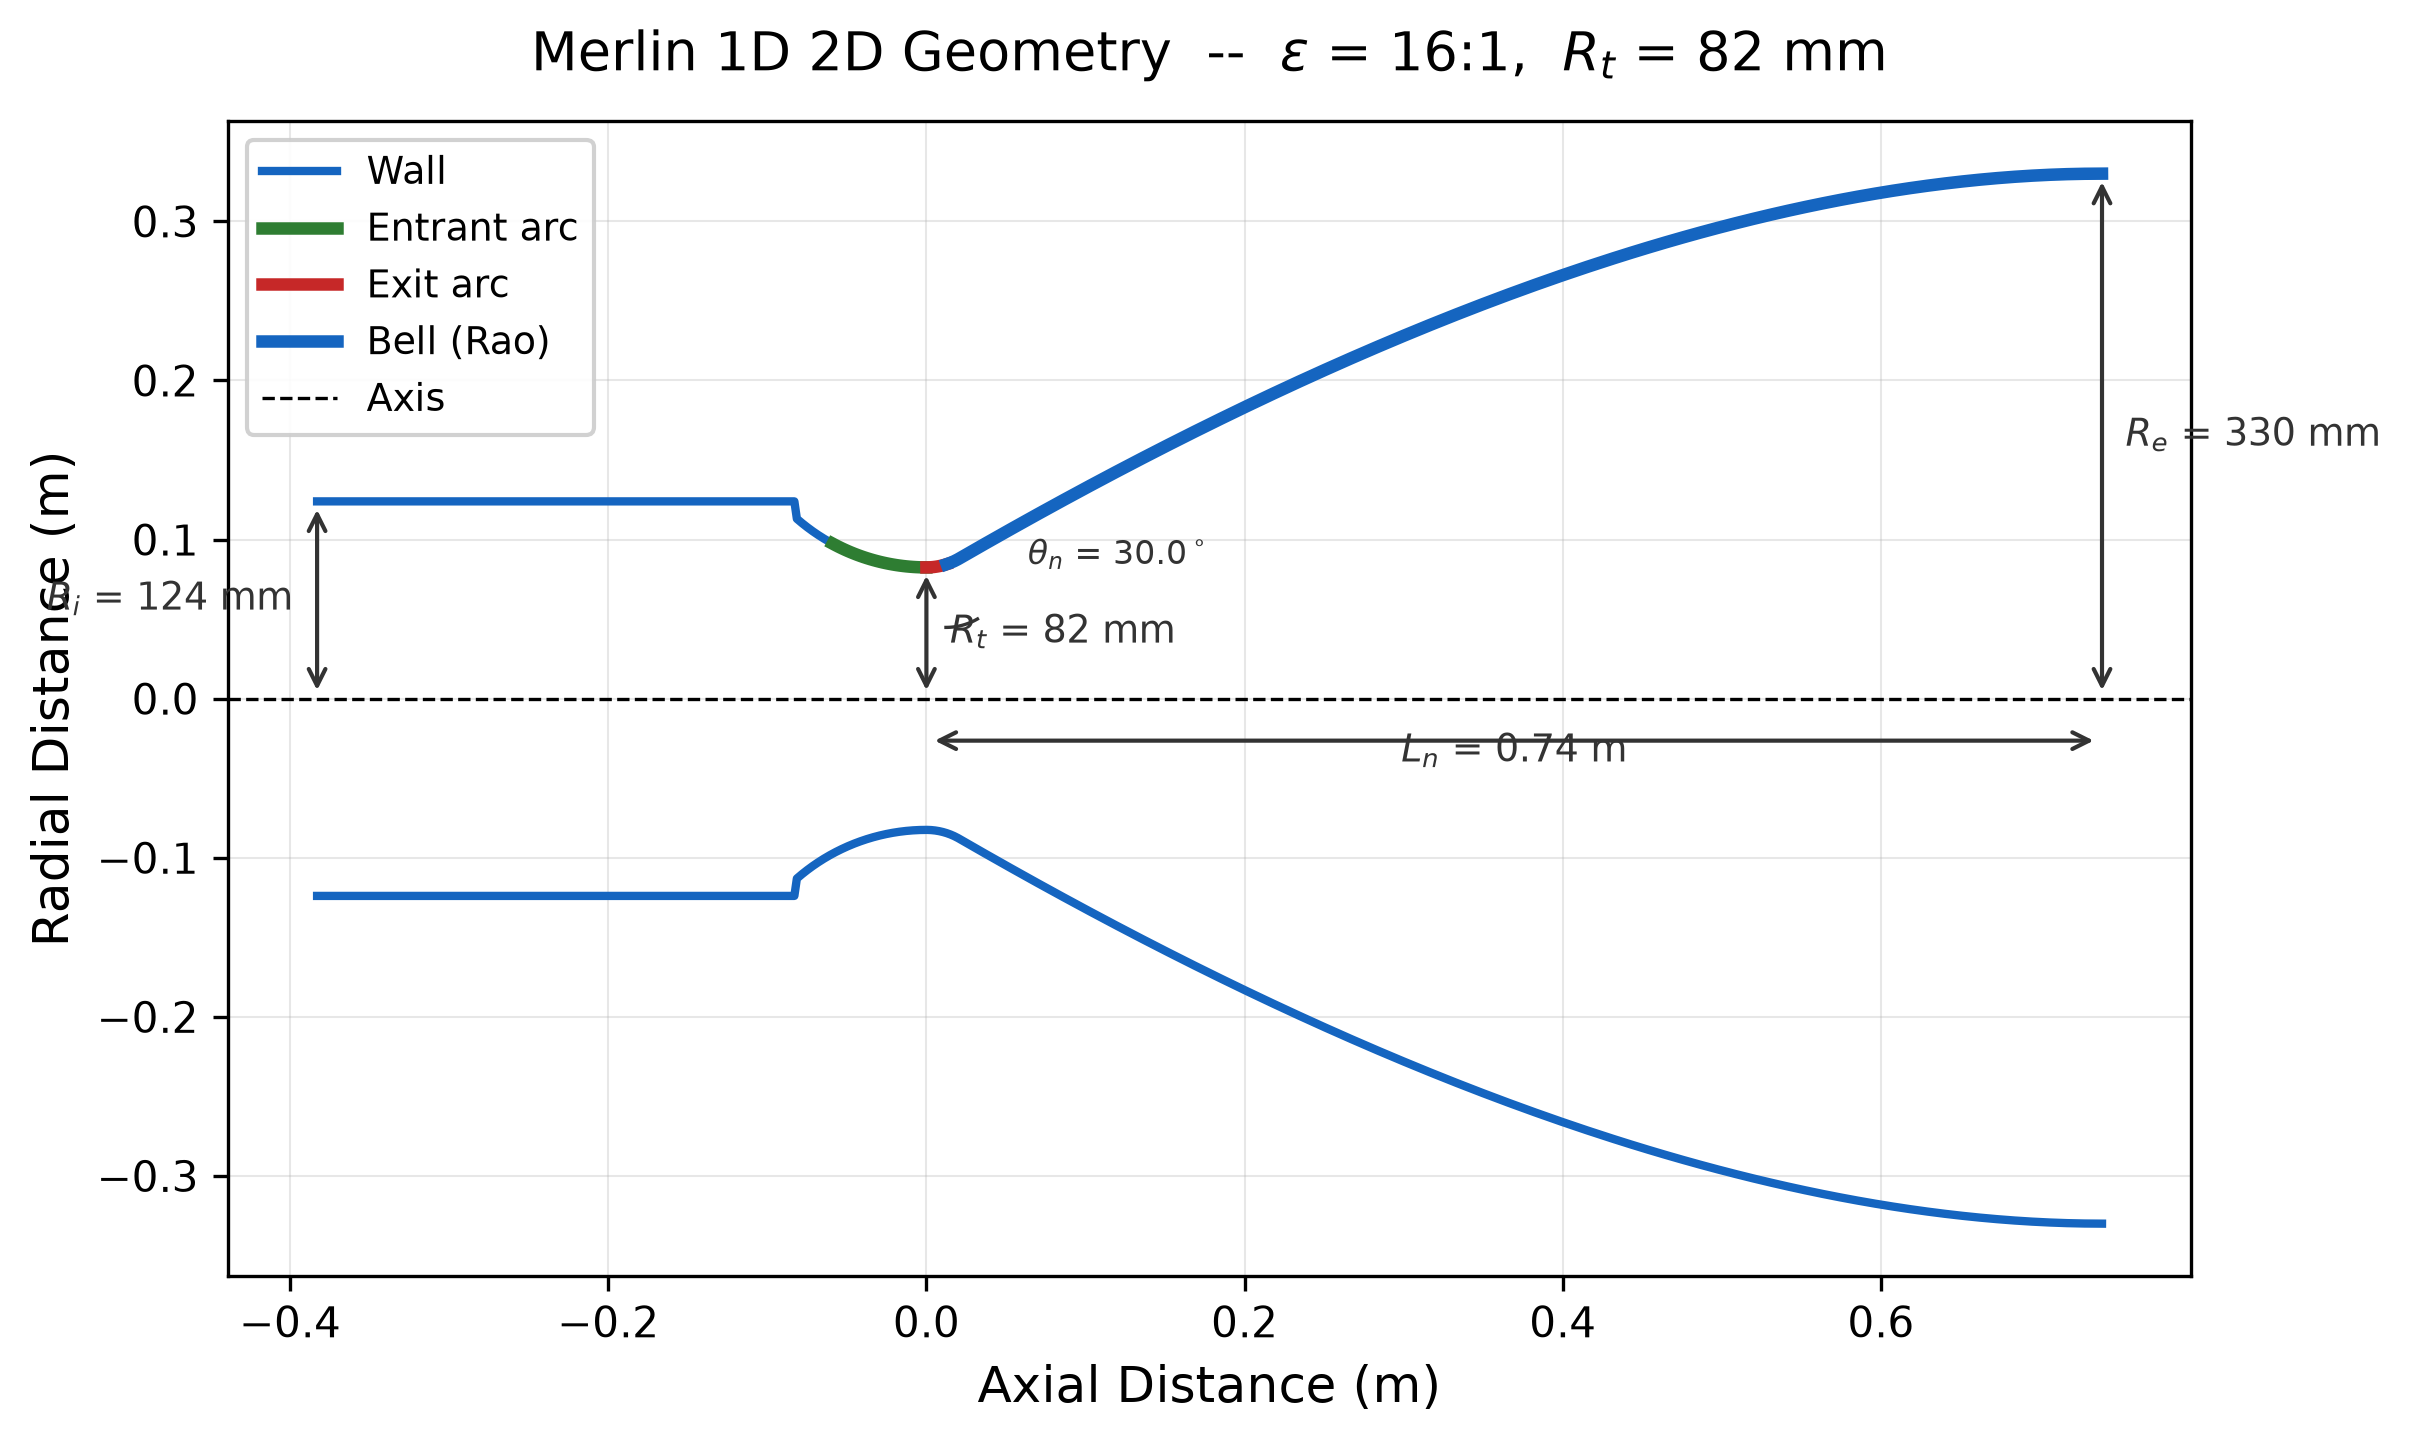
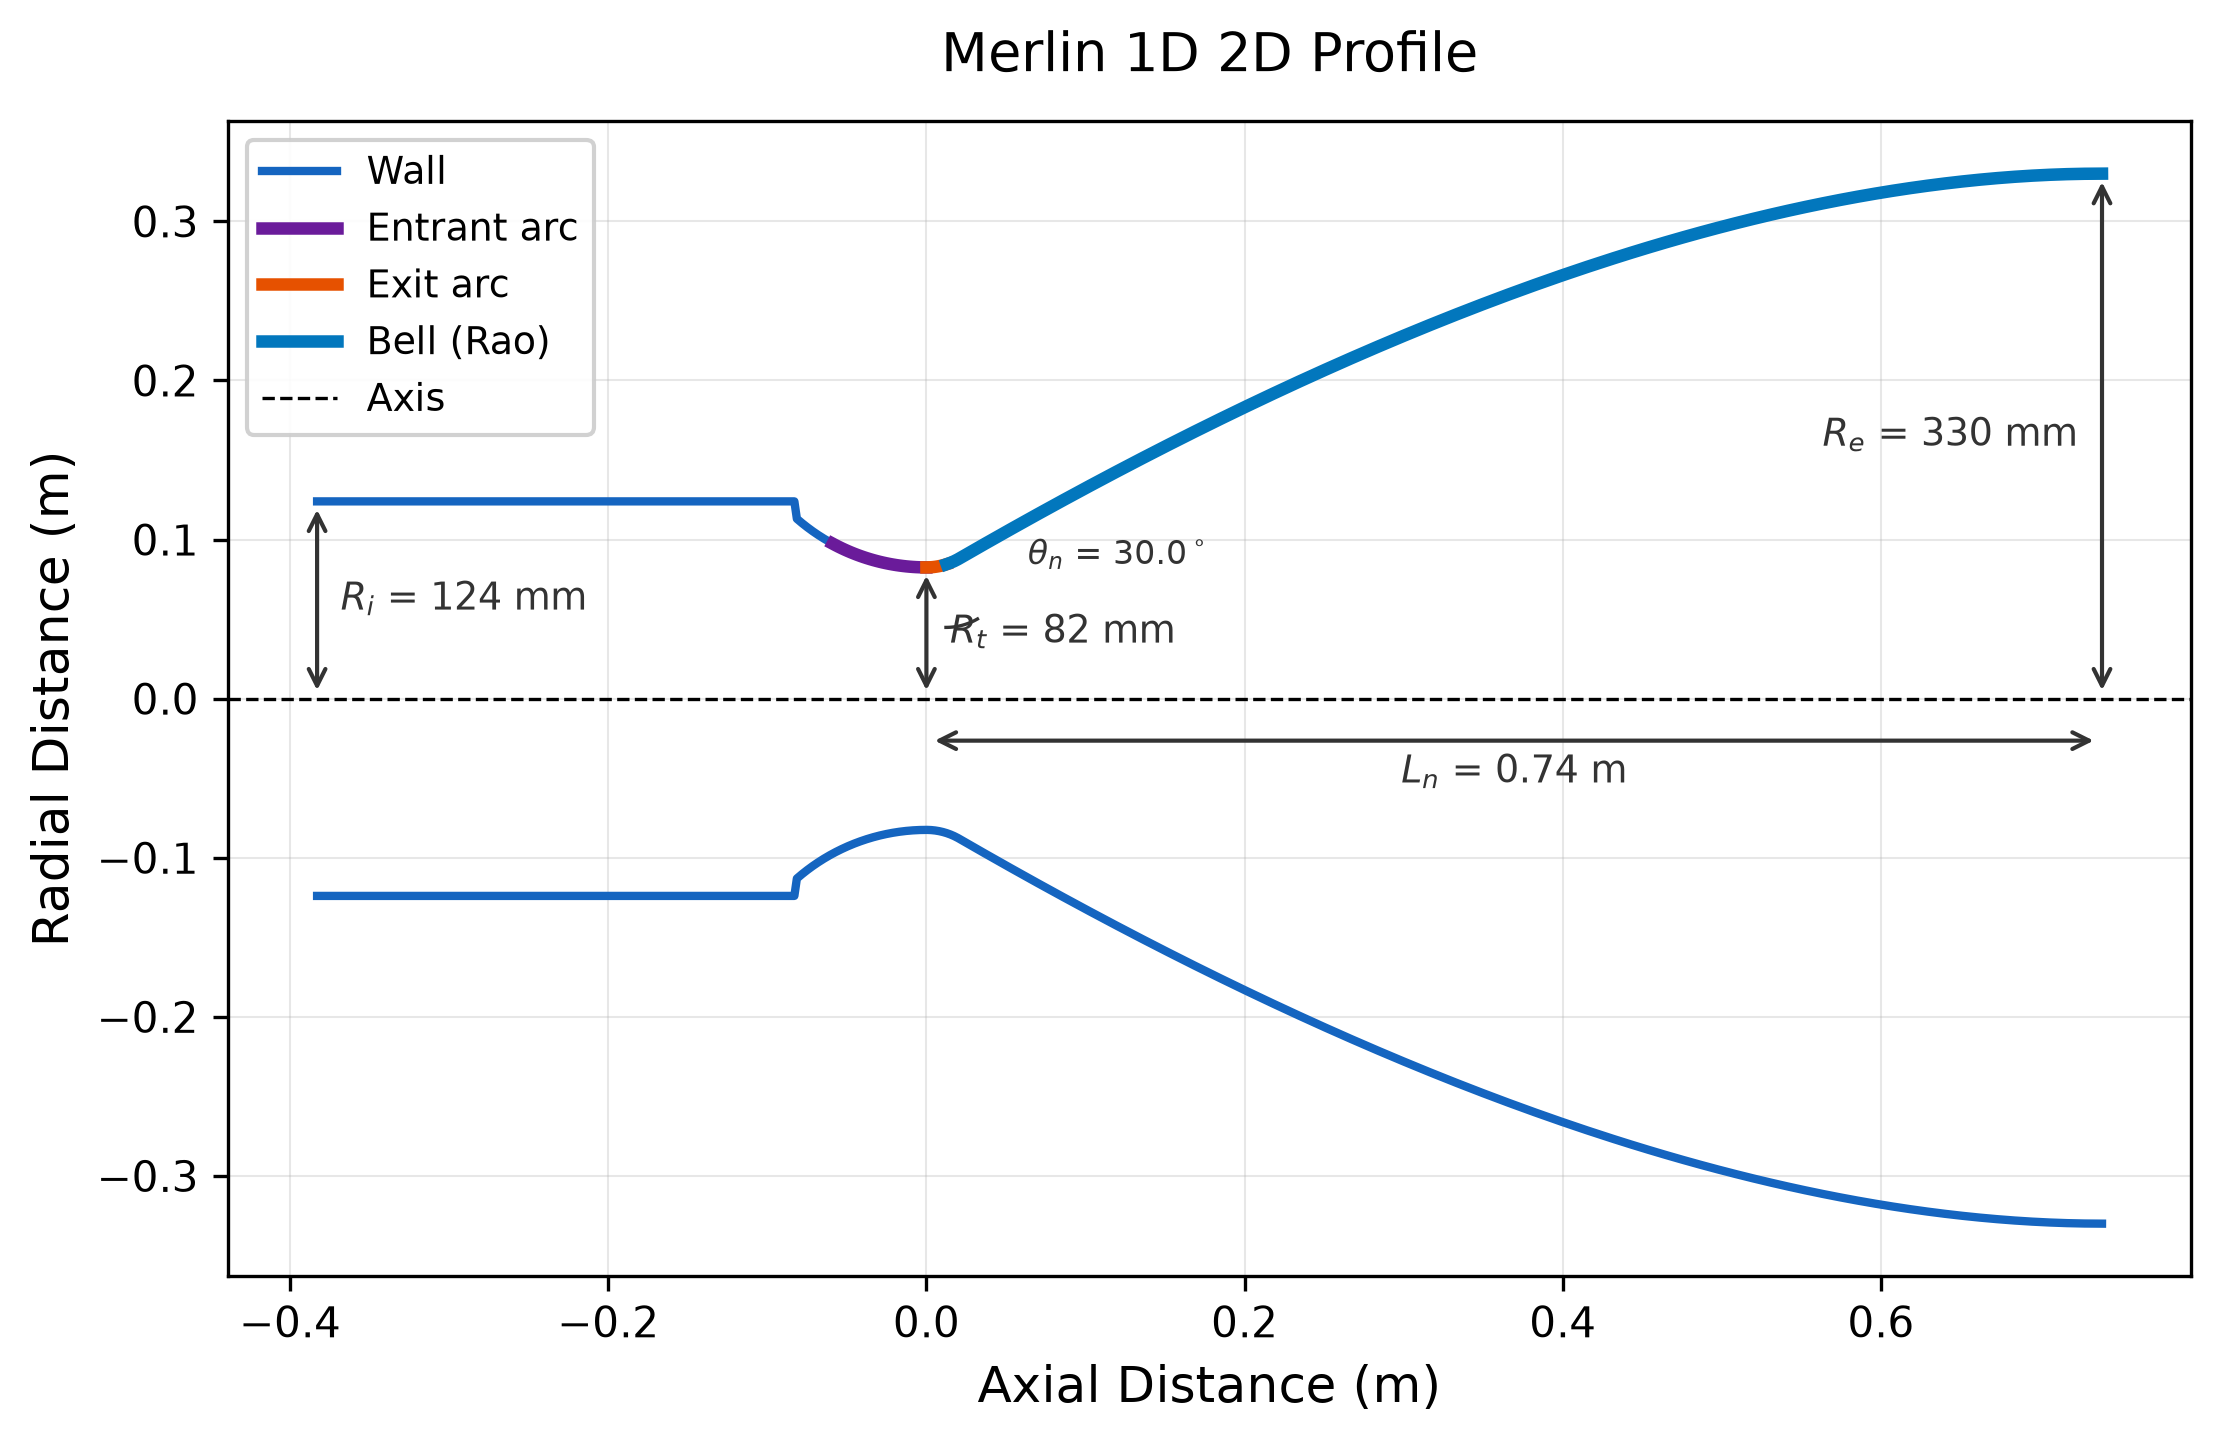
feat(viz): update 2D/3D plot titles, colors, annotations; add nozzle dimension tables to README

diff --git a/src/viz/contour_annotated.py b/src/viz/contour_annotated.py
@@ -114,18 +114,18 @@ def plot_annotated_contour(
     ax.plot(x, y, color="#1565C0", linewidth=2.0, label="Wall", zorder=5)
     ax.plot(x, -y, color="#1565C0", linewidth=2.0, zorder=5)
 
-    # --- Color-coded sections (top half) ---
+    # --- Color-coded sections (top half) - distinct colors per section ---
     ax.plot(
         sections.entrant_arc_x, sections.entrant_arc_y,
-        color="#2E7D32", linewidth=3.0, label="Entrant arc", zorder=6,
+        color="#6A1B9A", linewidth=3.0, label="Entrant arc", zorder=6,
     )
     ax.plot(
         sections.exit_arc_x, sections.exit_arc_y,
-        color="#C62828", linewidth=3.0, label="Exit arc", zorder=6,
+        color="#E65100", linewidth=3.0, label="Exit arc", zorder=6,
     )
     ax.plot(
         sections.bell_x, sections.bell_y,
-        color="#1565C0", linewidth=3.0, label="Bell (Rao)", zorder=6,
+        color="#0277BD", linewidth=3.0, label="Bell (Rao)", zorder=6,
     )
 
     # --- Axis of symmetry ---
@@ -156,34 +156,34 @@ def plot_annotated_contour(
             fontsize=9, color="#333", va="center",
         )
 
-        # Exit radius: vertical line at exit
-        ax.annotate(
-            "", xy=(ln, r_exit), xytext=(ln, 0),
-            arrowprops=dict(arrowstyle="<->", color="#333", lw=1.0),
-        )
-        ax.text(
-            ln + h_offset, r_exit / 2, f"$R_e$ = {r_exit*1000:.0f} mm",
-            fontsize=9, color="#333", va="center",
-        )
-
-        # Nozzle length: horizontal line along axis
+        # Nozzle length: horizontal line along axis (Ln label below the line)
         ax.annotate(
             "", xy=(ln, -v_offset), xytext=(0, -v_offset),
             arrowprops=dict(arrowstyle="<->", color="#333", lw=1.0),
         )
         ax.text(
-            ln / 2, -1.5 * v_offset, f"$L_n$ = {ln:.2f} m",
+            ln / 2, -2.0 * v_offset, f"$L_n$ = {ln:.2f} m",
             fontsize=9, color="#333", ha="center",
         )
 
-        # Inlet radius: vertical line at chamber start
+        # Exit radius: vertical line at exit (Re label to the left)
+        ax.annotate(
+            "", xy=(ln, r_exit), xytext=(ln, 0),
+            arrowprops=dict(arrowstyle="<->", color="#333", lw=1.0),
+        )
+        ax.text(
+            ln - h_offset, r_exit / 2, f"$R_e$ = {r_exit*1000:.0f} mm",
+            fontsize=9, color="#333", va="center", ha="right",
+        )
+
+        # Inlet radius: vertical line at chamber start (Ri label to the right)
         ax.annotate(
             "", xy=(x_start, r_inlet), xytext=(x_start, 0),
             arrowprops=dict(arrowstyle="<->", color="#333", lw=1.0),
         )
         ax.text(
-            x_start - h_offset, r_inlet / 2, f"$R_i$ = {r_inlet*1000:.0f} mm",
-            fontsize=9, color="#333", va="center", ha="right",
+            x_start + h_offset, r_inlet / 2, f"$R_i$ = {r_inlet*1000:.0f} mm",
+            fontsize=9, color="#333", va="center", ha="left",
         )
 
     # --- Angle annotations ---
@@ -209,8 +209,7 @@ def plot_annotated_contour(
     ax.set_xlabel("Axial Distance (m)", fontsize=12, color="black")
     ax.set_ylabel("Radial Distance (m)", fontsize=12, color="black")
     ax.set_title(
-        f"{engine_name} 2D Geometry  --  $\\epsilon$ = {config.expansion_ratio:.0f}:1"
-        f",  $R_t$ = {config.throat_radius*1000:.0f} mm",
+        f"{engine_name} 2D Profile",
         fontsize=13, color="black", pad=12,
     )
     ax.legend(fontsize=9, loc="upper left", framealpha=0.9)

diff --git a/src/viz/nozzle_3d.py b/src/viz/nozzle_3d.py
@@ -117,8 +117,7 @@ def plot_nozzle_3d(
         pane.set_edgecolor("#cccccc")
 
     ax.set_title(
-        f"{engine_name} 3D Geometry  --  $\\epsilon$ = {config.expansion_ratio:.0f}:1"
-        f",  $R_t$ = {config.throat_radius*1000:.0f} mm",
+        f"{engine_name} 3D Geometry",
         fontsize=12, color="black", pad=12,
     )
 

diff --git a/README.md b/README.md
@@ -121,6 +121,19 @@ Temperature decreases from chamber (2200-3600 K). RANS thermal boundary layer is
 
 *Manufactured by SpaceX, the Merlin 1D is a gas-generator cycle engine burning LOX/RP-1 propellants with a pintle injector design. First flown in 2013 on the Falcon 9, it has become the most-flown rocket engine in history, powering all Falcon 9 and Falcon Heavy first stages.*
 
+### Nozzle Dimensions
+
+| Parameter | Value |
+|-----------|-------|
+| Throat Radius (Rt) | 82.5 mm |
+| Exit Radius (Re) | 330 mm |
+| Inlet Radius (Ri) | 124 mm |
+| Nozzle Length (Ln) | 0.74 m |
+| Converging Length | 83 mm |
+| Chamber Length | 300 mm |
+| Expansion Ratio | 16:1 |
+| theta_n | 30.0 deg |
+
 ### Nozzle Geometry
 
 | 2D Annotated Profile | 3D Revolved Surface |
@@ -178,6 +191,19 @@ Shock diamond pattern observed in the exhaust plume, formed by the interaction o
 ## SpaceX Raptor SL
 
 *The Raptor SL is a full-flow staged combustion cycle engine manufactured by SpaceX, burning LOX/CH4 propellants at the highest chamber pressure (33 MPa) of any operational engine. First flown in 2023 on Starship, it is the first full-flow staged combustion engine to power a vehicle in flight.*
+
+### Nozzle Dimensions
+
+| Parameter | Value |
+|-----------|-------|
+| Throat Radius (Rt) | 82.5 mm |
+| Exit Radius (Re) | 481 mm |
+| Inlet Radius (Ri) | 124 mm |
+| Nozzle Length (Ln) | 1.19 m |
+| Converging Length | 83 mm |
+| Chamber Length | 300 mm |
+| Expansion Ratio | 34:1 |
+| theta_n | 28.0 deg |
 
 ### Nozzle Geometry
 
@@ -237,6 +263,19 @@ Shock diamond formation in the Raptor SL exhaust plume, visible as repeating bri
 
 *Designed and manufactured by Aerojet Rocketdyne, the RS-25 is a fuel-rich staged combustion cycle engine burning LOX/LH2 with a vacuum specific impulse of 452 seconds. First flown in 1981 on the Space Shuttle, it continues service on NASA's Space Launch System (SLS) core stage.*
 
+### Nozzle Dimensions
+
+| Parameter | Value |
+|-----------|-------|
+| Throat Radius (Rt) | 136 mm |
+| Exit Radius (Re) | 1197 mm |
+| Inlet Radius (Ri) | 204 mm |
+| Nozzle Length (Ln) | 3.17 m |
+| Converging Length | 136 mm |
+| Chamber Length | 500 mm |
+| Expansion Ratio | 77.5:1 |
+| theta_n | 25.0 deg |
+
 ### Nozzle Geometry
 
 | 2D Annotated Profile | 3D Revolved Surface |
@@ -294,6 +333,19 @@ Shock diamond structure in the RS-25 exhaust plume at vacuum conditions, showing
 ## RL10B-2 (Delta IV Upper Stage)
 
 *The RL10B-2 is an expander cycle engine manufactured by Aerojet Rocketdyne, burning LOX/LH2 with a carbon-carbon extendable nozzle achieving 465.5 seconds of vacuum specific impulse. First flown in 1998, it has powered the upper stages of Delta IV and Vulcan Centaur rockets.*
+
+### Nozzle Dimensions
+
+| Parameter | Value |
+|-----------|-------|
+| Throat Radius (Rt) | 77 mm |
+| Exit Radius (Re) | 1300 mm |
+| Inlet Radius (Ri) | 115.5 mm |
+| Nozzle Length (Ln) | 3.65 m |
+| Converging Length | 77 mm |
+| Chamber Length | 600 mm |
+| Expansion Ratio | 285:1 |
+| theta_n | 20.0 deg |
 
 ### Nozzle Geometry
 
